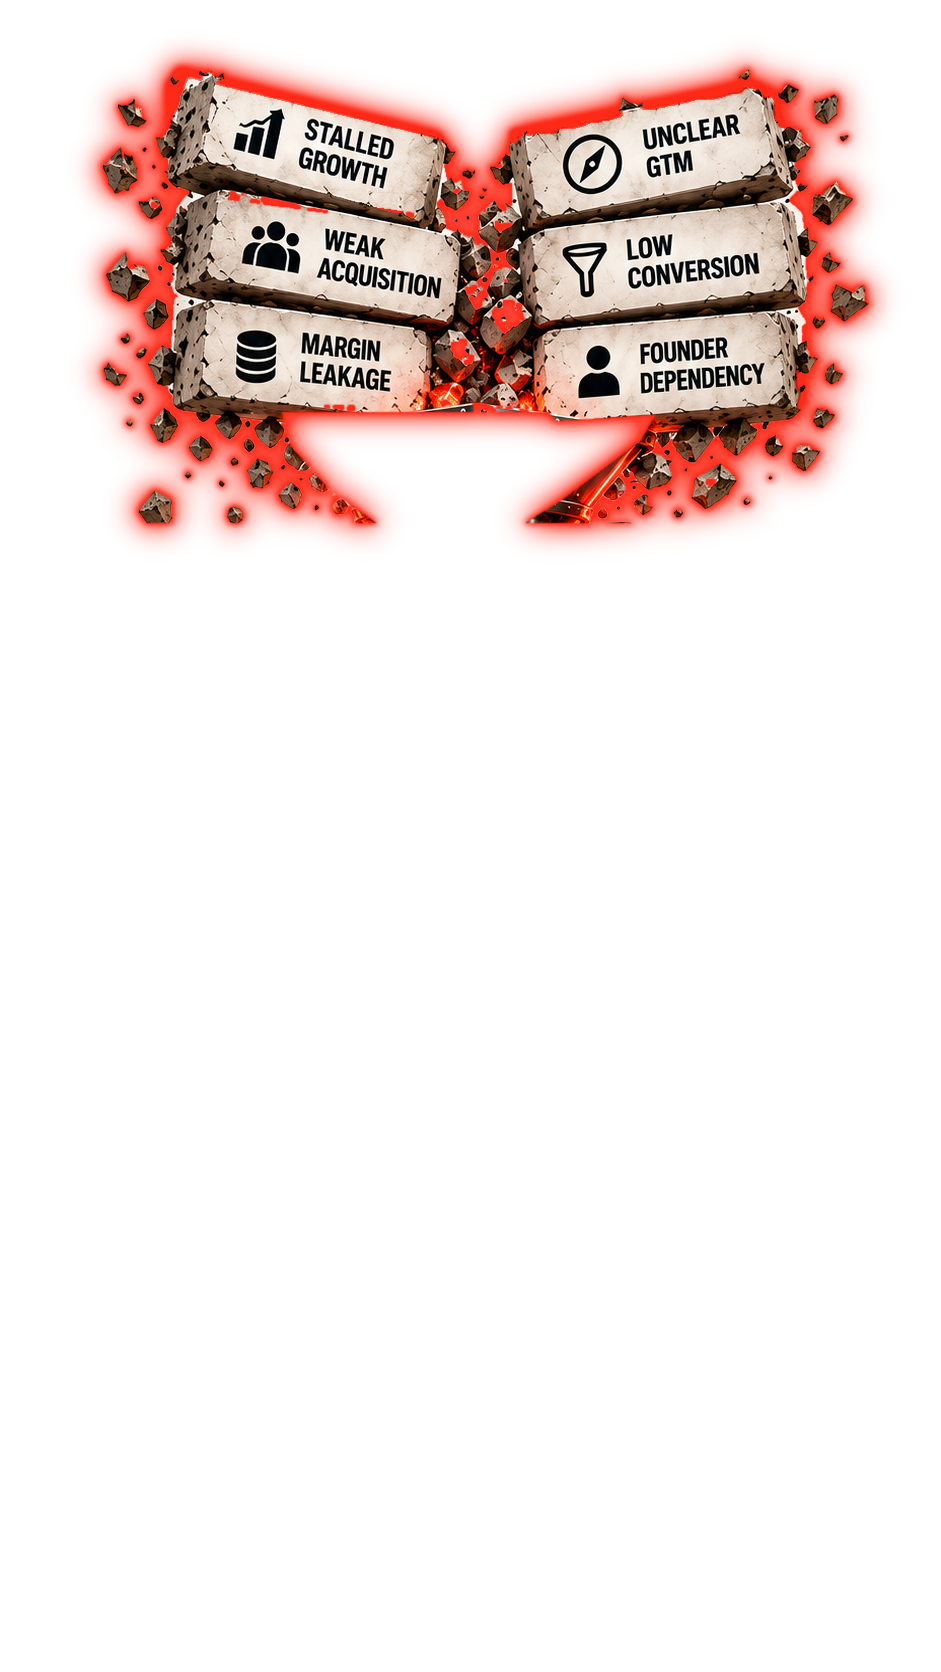
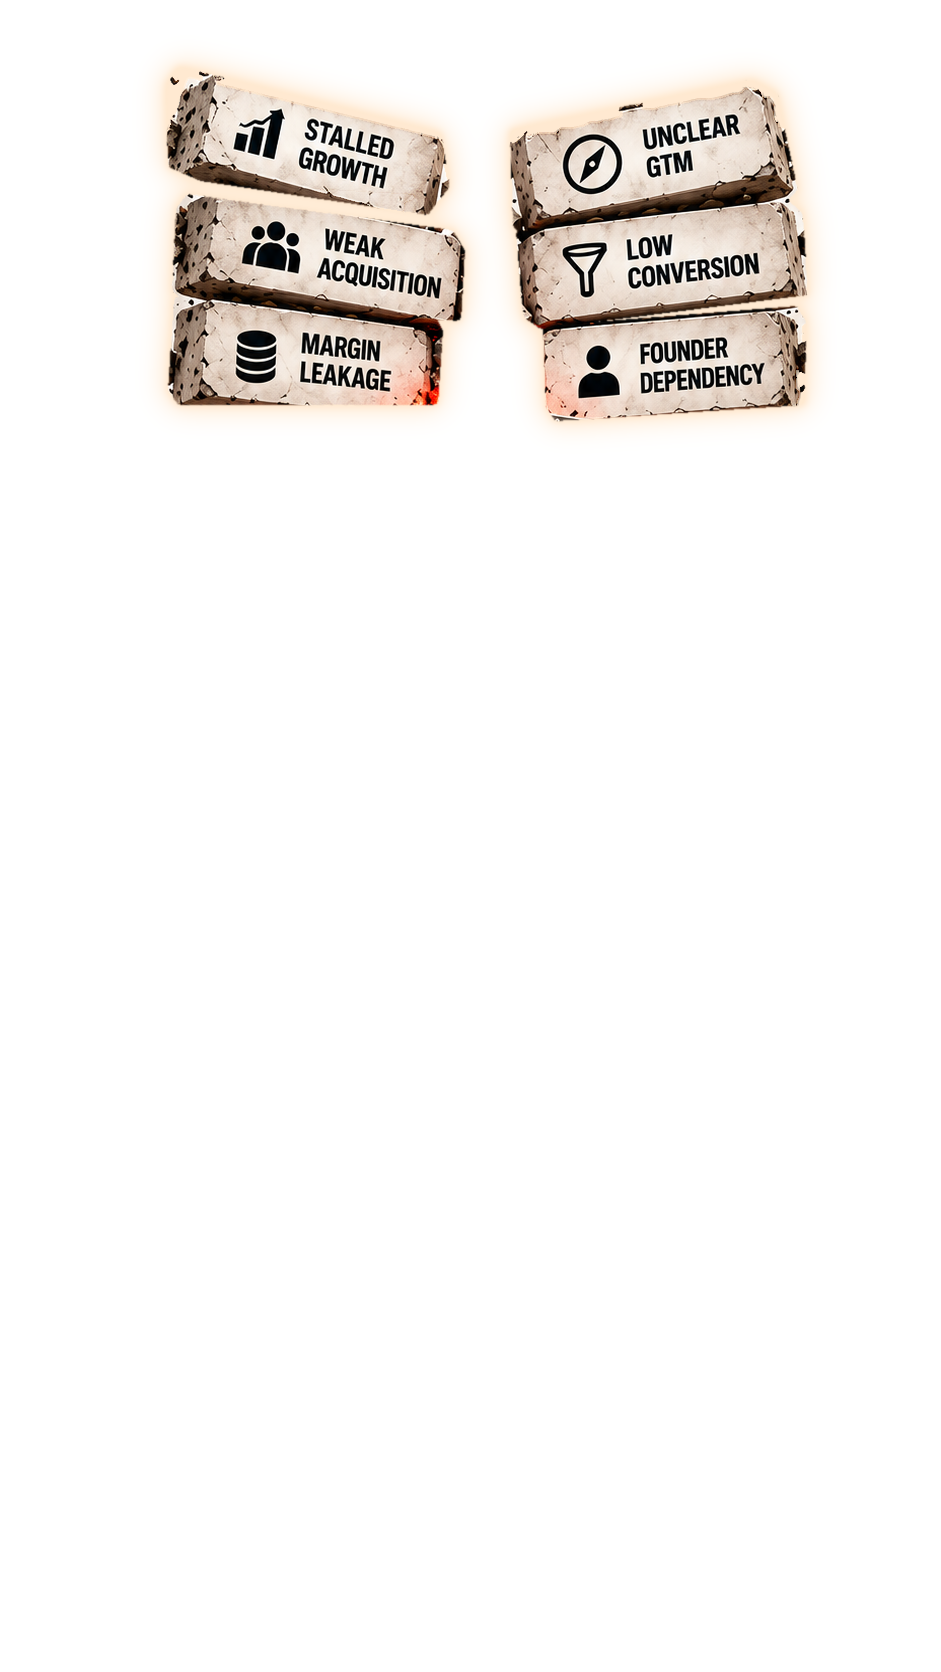
Machine: warm white for problems and results, red for the work
The 'in' phase lights only the six problem slabs, warm white like the
nameplate; the rubble is no longer lit. The result blocks light warm white
too, still in step with the chart's arrow and bars, which stay red with
the four stages.

Claude-Session: https://claude.ai/code/session_01RD994P3JhY2dxs5GjAWo8M

Changed region(s): [[0.0925, 0.0311, 0.9554, 0.3421]]

diff --git a/brand/tools/machine-glows.py b/brand/tools/machine-glows.py
@@ -11,7 +11,7 @@ Writes to src/assets/machine/:
   machine-<art>.png      the final cut-out, on a canvas padded so no glow is
                          clipped by the image edge
   glow-<art>-<phase>.png one full-canvas backlit layer per phase
-                           in     every slab and every piece of rubble
+                           in     the six problem slabs (not the rubble)
                            s1-s4  each of the four stage panels
   seq-<art>-<item>.png   the result sequence, each cropped to its own glow:
                            arrow        the chart's arrow, revealed by a wipe
@@ -26,9 +26,11 @@ Slabs, stage panels and result boards are kept fully solid, and on desktop
 each result board's icon and text are recentred between its rivets (the
 render drew most of them off-centre).
 
-Each backlit layer is a torch-red glow hugging the object's outline, with the
-object redrawn on top, so the glow reads as light from behind it even where
-it sits inside the machine body.
+Each backlit layer is a glow hugging the object's outline, with the object
+redrawn on top, so the glow reads as light from behind it even where it sits
+inside the machine body. Problems going in and results coming out are lit
+warm white, like the nameplate; the stages and the chart's arrow and bars are
+lit torch red, so red means the machine at work.
 
 The cut-out is also finished here: the last trapped studio backdrop between
 the rubble and the cables is removed so nothing light shows on a dark page;
@@ -50,12 +52,19 @@ import numpy as np
 
 TORCH = (21, 39, 255)  # BGR of #FF2715
 OUT = os.environ.get("TGM_OUT", "src/assets/machine")
-# The "in" phase: which objects light ("all" = slabs and rubble, "slabs" = the
-# problem slabs only), how strongly, and in what colour (BGR).
-IN_LIGHT = os.environ.get("TGM_IN", "all")
-IN_STRENGTH = float(os.environ.get("TGM_IN_STRENGTH", "1"))
+# Warm white, the nameplate's light. The problem slabs going in and the result
+# blocks coming out are lit with it; red is kept for the machine's own work
+# (the four stages) and the chart's arrow and bars (decided 8 October 2026,
+# after a red blaze of rubble read as alarm rather than as the brand).
+WARM = (170, 215, 255)  # BGR of #FFD7AA
+WARM_STRENGTH = 0.55
+# The "in" phase, overridable to try variants: which objects light ("slabs"
+# = the problem slabs only, "all" = slabs and rubble), how strongly, in what
+# colour (BGR), and how much the lit objects brighten.
+IN_LIGHT = os.environ.get("TGM_IN", "slabs")
+IN_STRENGTH = float(os.environ.get("TGM_IN_STRENGTH", str(WARM_STRENGTH)))
 IN_LIFT = float(os.environ.get("TGM_IN_LIFT", "1"))
-IN_COLOUR = tuple(int(v) for v in os.environ.get("TGM_IN_COLOUR", ",".join(map(str, (21, 39, 255)))).split(","))
+IN_COLOUR = tuple(int(v) for v in os.environ.get("TGM_IN_COLOUR", ",".join(map(str, WARM))).split(","))
 
 
 def rrect(x, y, w, h):
@@ -517,7 +526,8 @@ def run(art, c):
     beats.append(1.0)  # the arrow's tip
     for k, idx in enumerate(c["block_order"]):
         m = pad(outs[idx])
-        seq["items"].append({"name": f"block{k + 1}", "box": crop(glow_layer(m, RGB, A, so, sr), f"block{k + 1}"), "at": beats[k]})
+        lit = glow_layer(m, RGB, A, so, sr, strength=WARM_STRENGTH, colour=WARM)
+        seq["items"].append({"name": f"block{k + 1}", "box": crop(lit, f"block{k + 1}"), "at": beats[k]})
 
     print(art, "canvas", (PW, PH), "| backdrop px removed", int(back.sum()), "| pocket px removed", int(trapped.sum()), "| beats", beats)
     return {"size": [PW, PH], "offset": [pl, pt], "seq": seq}

diff --git a/CLAUDE.md b/CLAUDE.md
@@ -127,10 +127,15 @@ logo itself.
   - **How we work is an ink section (decided 7 October 2026).** Andrew chose
     black over cream: the red backlights read as real light.
   - As the reader scrolls, the machine fades back (to 60%, raised from 50% at
-    Andrew's request) and one phase at a time is backlit in torch red: every
-    slab and piece of rubble going in, then each stage panel. Each glow
-    follows the object's own outline, and the four stage outlines are
-    identical so every stage looks the same when it lights. No boxes.
+    Andrew's request) and one phase at a time is backlit: the six problem
+    slabs going in, then each stage panel. Each glow follows the object's own
+    outline, and the four stage outlines are identical so every stage looks
+    the same when it lights. No boxes.
+  - **Red means the machine at work (decided 8 October 2026).** The problem
+    slabs and the result blocks are lit warm white, the nameplate's light;
+    the four stages and the chart's arrow and bars are lit torch red. The
+    first version lit every piece of rubble red, and a hundred halos read as
+    an alarm rather than as the brand. The rubble is not lit at all.
   - What comes out is a timed sequence: the chart's arrow climbs at a steady
     rate, each bar lights as the arrow passes it, and each result block lights
     with its bar (bottom up on desktop, left to right on a phone), the fifth
